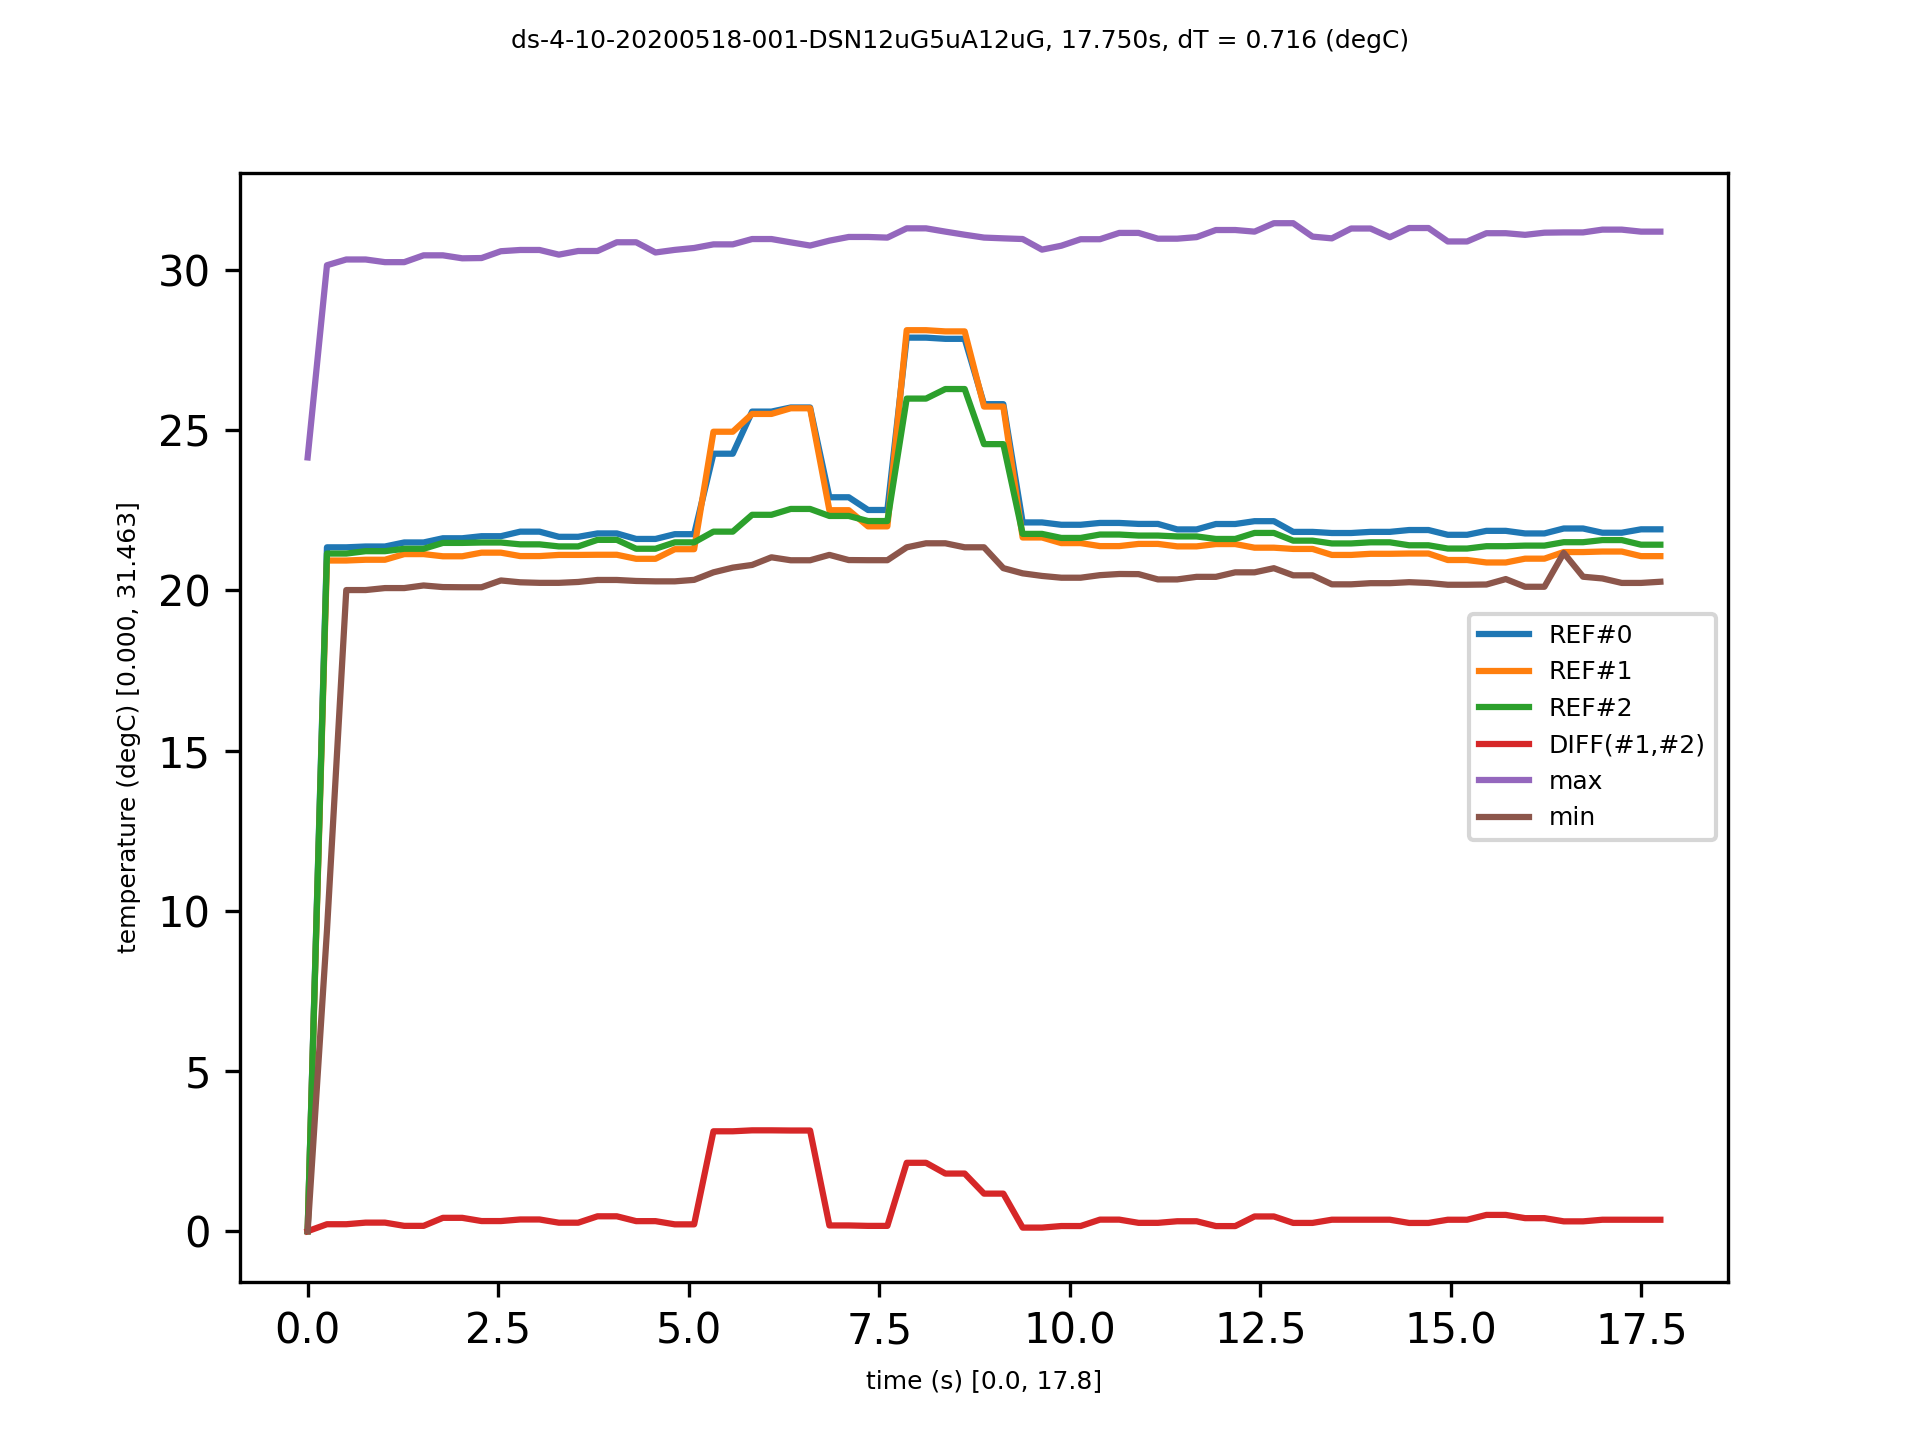
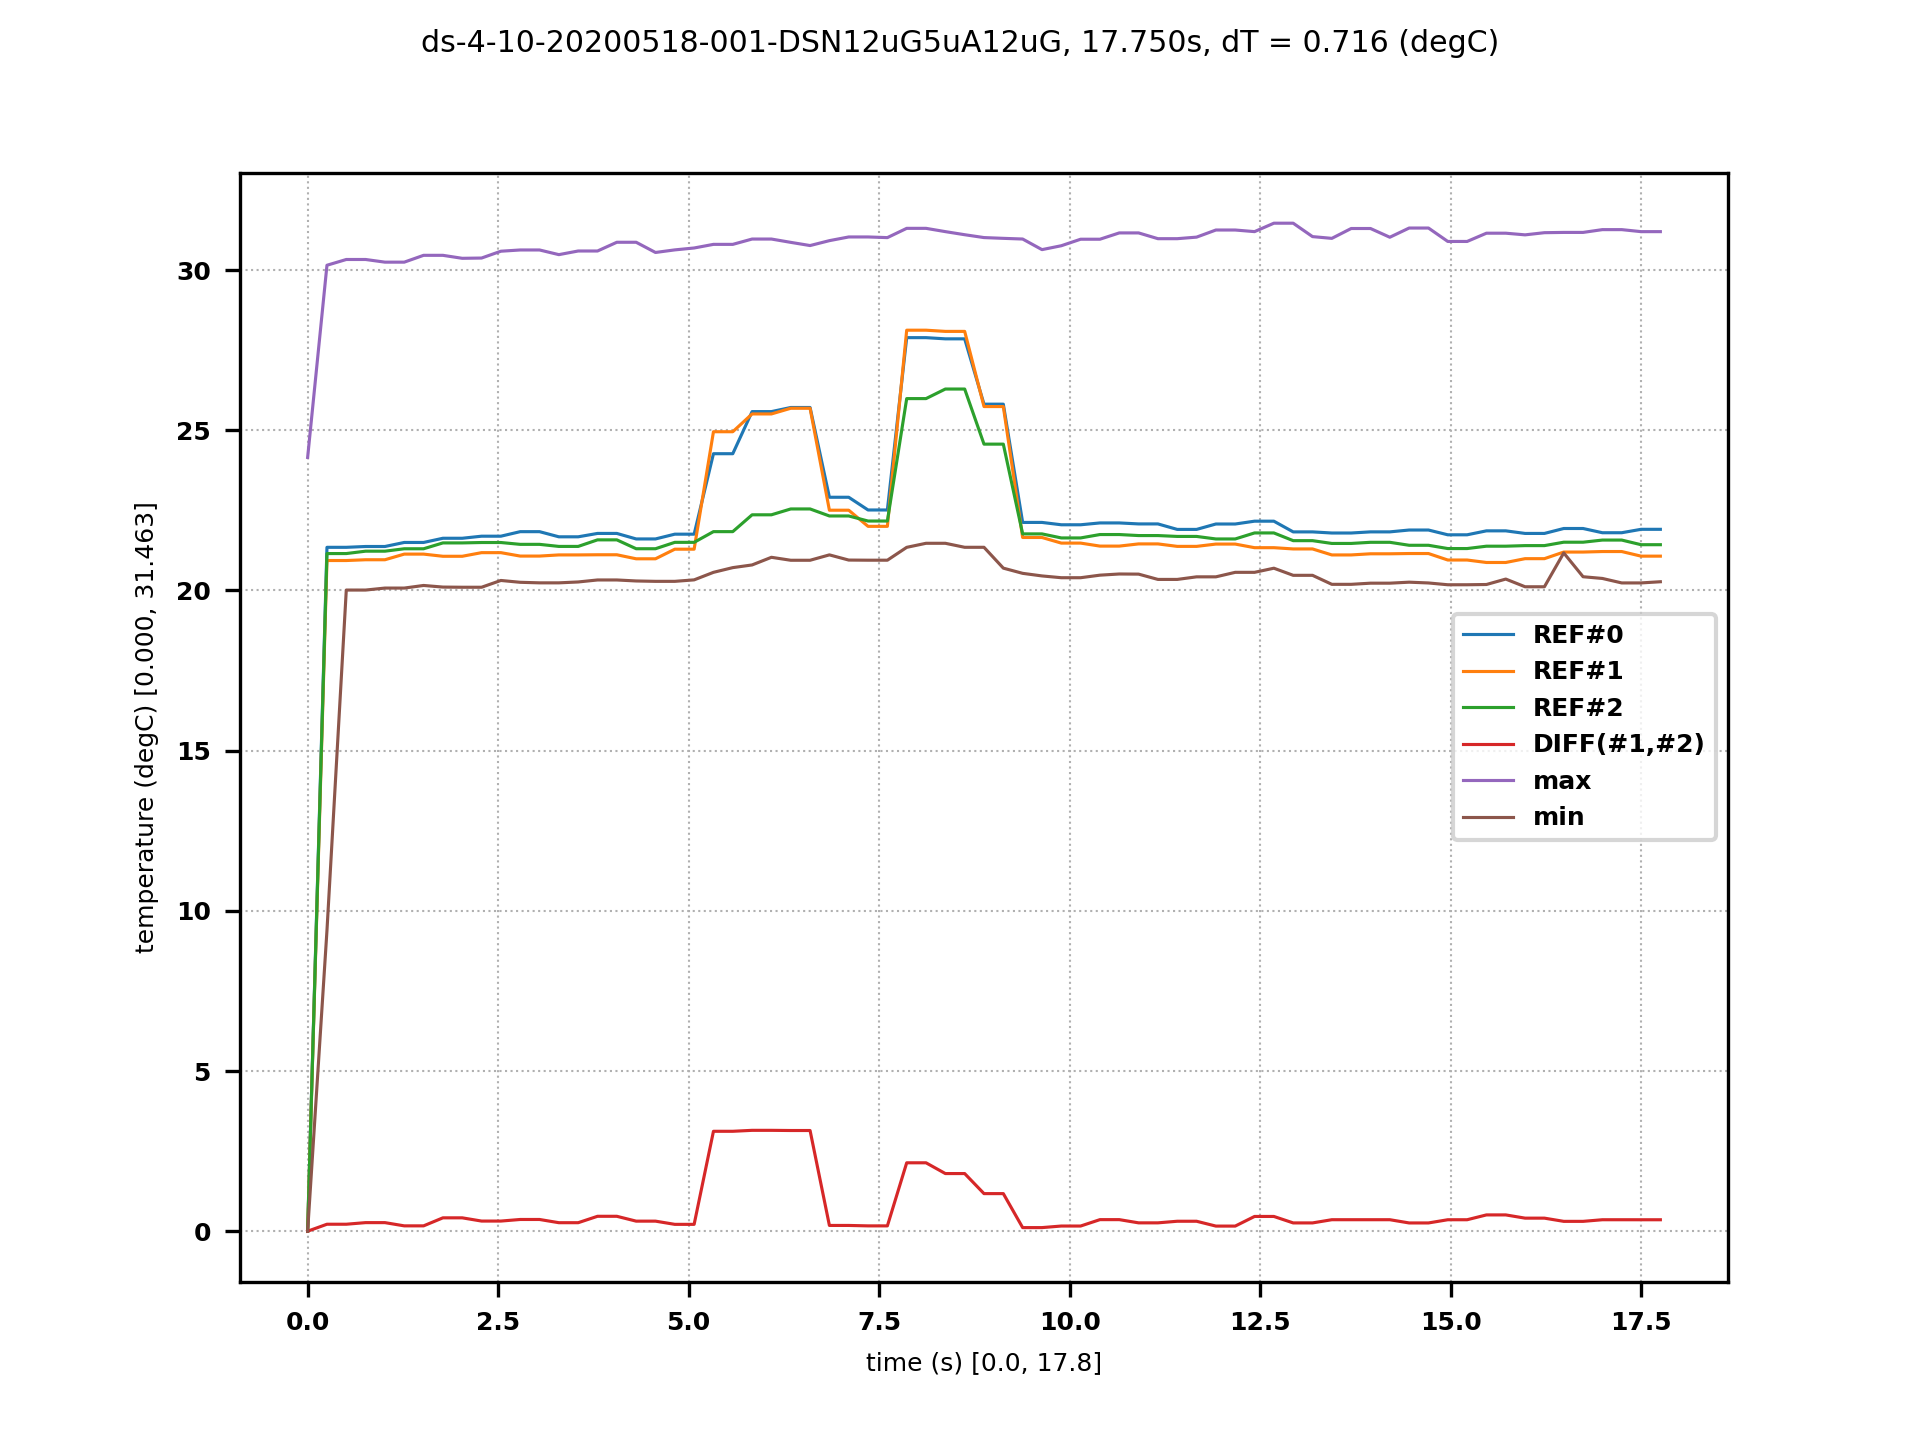
Polished up images, ready to use.

diff --git a/processor/processor.py b/processor/processor.py
@@ -1,6 +1,7 @@
 """This is the processor that digests the raw data from MLX90640 and analyzes it."""
 
 import argparse
+import matplotlib as mp
 import matplotlib.pyplot as pl
 import numpy as np
 import os
@@ -15,7 +16,7 @@ class MLX90640Frame(logger.LoggingClass):
     This is an array of floats, with 32x24 elements (MLX90640 pixels)
     """
 
-    def __init__(self, frame, time_us, plot=True):
+    def __init__(self, frame, time_us, plot_frame=True):
         """Default constructor
         frame - array with the pixel data
         time_us - timestamp (in microseconds) at which the image was taken
@@ -25,7 +26,7 @@ class MLX90640Frame(logger.LoggingClass):
 
         self.frame = frame
         self.time_us = time_us
-        self.plot = plot
+        self.plot_frame = plot_frame
 
         self.image_filename = "-".join([MLX90640Processor.dataset_name, "{:.0f}".format(self.time_us)]) + '.png'
         self.image_filepath = os.path.join(MLX90640Processor.dataset_dirpath, self.image_filename)
@@ -55,30 +56,30 @@ class MLX90640Frame(logger.LoggingClass):
     def temperature(self, coordinates):
         return self.frame[coordinates[1], coordinates[0]]
 
-    def _annotateTemperature(self, coordinates, temperature, fontsize=6, shift_x=2, shift_y=0, label=""):
+    def _annotateTemperature(self, coordinates, temperature, shift_x=2, shift_y=0, label=""):
         pl.text(
             coordinates[0]+shift_x, coordinates[1]+shift_y, f"{label}:{temperature:.1f}",
-            horizontalalignment='right', verticalalignment='center', fontsize=fontsize
+            horizontalalignment='right', verticalalignment='center'
         )
         pl.plot(*coordinates, 'X')
 
-    def plot(self, fontsize=6):
+    def plot(self, cmap='nipy_spectral', dpi=300):
 
         fig, ax = pl.subplots()
-        fig.suptitle(f"{MLX90640Processor.dataset_name}@{self.time_us/1e6:3.3f}s, dT = {self.diff_t_12:2.3f} (degC)")
+        fig.suptitle(f"{MLX90640Processor.dataset_name}@{self.time_us/1e6:3.3f} s, dT = {self.diff_t_12:2.3f} (degC)")
         image = pl.imshow(
-            self.frame, aspect='auto', cmap=pl.get_cmap('nipy_spectral'),
+            self.frame, aspect='auto', cmap=pl.get_cmap(cmap),
             vmin=MLX90640Processor.T_MIN_C, vmax=MLX90640Processor.T_MAX_C
         )
         fig.colorbar(image)
 
-        self._annotateTemperature(MLX90640Processor.REF_PIXEL_0, self.ref_t_0, fontsize=fontsize)
-        self._annotateTemperature(MLX90640Processor.REF_PIXEL_1, self.ref_t_1, fontsize=fontsize)
-        self._annotateTemperature(MLX90640Processor.REF_PIXEL_2, self.ref_t_2, fontsize=fontsize)
-        self._annotateTemperature(self.min_pixel, self.min_value, label="min", fontsize=fontsize)
-        self._annotateTemperature(self.max_pixel, self.max_value, label="max", fontsize=fontsize)
+        self._annotateTemperature(MLX90640Processor.REF_PIXEL_0, self.ref_t_0)
+        self._annotateTemperature(MLX90640Processor.REF_PIXEL_1, self.ref_t_1)
+        self._annotateTemperature(MLX90640Processor.REF_PIXEL_2, self.ref_t_2)
+        self._annotateTemperature(self.min_pixel, self.min_value, label="min")
+        self._annotateTemperature(self.max_pixel, self.max_value, label="max")
 
-        pl.savefig(self.image_filepath, dpi=300)
+        pl.savefig(self.image_filepath, dpi=dpi)
         pl.close()
 
     def process(self):
@@ -101,7 +102,7 @@ class MLX90640Frame(logger.LoggingClass):
         result = np.where(self.frame == self.max_value)
         self.max_pixel = (result[1][0], result[0][0])
 
-        if self.plot:
+        if self.plot_frame:
             self.plot()
 
 
@@ -162,7 +163,7 @@ class MLX90640Processor(logger.LoggingClass):
         self._l.debug(f"> r_pix_1 = ({self.REF_PIXEL_1})")
         self._l.debug(f"> r_pix_2 = ({self.REF_PIXEL_2})")
 
-    def __init__(self, fps, distance_mm, raw_filepath, px_distance_mm=10, plot_frames=True):
+    def __init__(self, fps, distance_mm, raw_filepath, px_distance_mm=10, plot_frames=True, fontsize=6):
         """Default constructor
         fps - frames per second, necessary to calculate the timeline
         distance_mm - mm of distance from the camera to the target material
@@ -177,9 +178,13 @@ class MLX90640Processor(logger.LoggingClass):
         self.raw_filepath = raw_filepath
         self.px_distance_mm = px_distance_mm
         self.plot_frames = plot_frames
+        self.fontsize = fontsize
 
         self.timestep_us = 1e6 / self.fps
         self.frames = []
+
+        font = {'family': 'normal', 'weight': 'bold', 'size': self.fontsize}
+        mp.rc('font', **font)
 
         MLX90640Processor.dataset_name = pathlib.Path(self.raw_filepath).stem
         MLX90640Processor.dataset_dirpath = os.path.join(
@@ -210,7 +215,7 @@ class MLX90640Processor(logger.LoggingClass):
                 try:
 
                     array = np.fromfile(f, dtype=np.float32, count=self.PIXELS_FRAME)
-                    frame = MLX90640Frame(array.reshape(self.FRAME_SHAPE), time_us, plot=self.plot_frames)
+                    frame = MLX90640Frame(array.reshape(self.FRAME_SHAPE), time_us, plot_frame=self.plot_frames)
                     self.frames.append(frame)
                     time_us += self.timestep_us
 
@@ -258,36 +263,34 @@ class MLX90640Processor(logger.LoggingClass):
 
         self.plot()
 
-    def plot(self, fontsize=6):
+    def plot(self):
         """
         This method plots the resulting time-dependent variables.
         NOTICE: it requires of postprocess() to have been correctly executed.
         """
         fig, ax = pl.subplots()
-        fig.suptitle(
-            f"{self.dataset_name}, {self.duration:3.3f}s, dT = {self.stable_dT:2.3f} (degC)",
-            fontsize=fontsize
-        )
+        fig.suptitle(f"{self.dataset_name}, {self.duration:3.3f}s, dT = {self.stable_dT:2.3f} (degC)")
 
-        pl.plot(self.t,     self.t0,    label="REF#0")
-        pl.plot(self.t,     self.t1,    label="REF#1")
-        pl.plot(self.t,     self.t2,    label="REF#2")
+        pl.plot(self.t,     self.t0,    linewidth=0.75, label="REF#0")
+        pl.plot(self.t,     self.t1,    linewidth=0.75, label="REF#1")
+        pl.plot(self.t,     self.t2,    linewidth=0.75, label="REF#2")
 
-        pl.plot(self.t,     self.diff,  label="DIFF(#1,#2)")
-        pl.plot(self.t,     self.max,   label="max")
-        pl.plot(self.t,     self.min,   label="min")
+        pl.plot(self.t,     self.diff,  linewidth=0.75, label="DIFF(#1,#2)")
+        pl.plot(self.t,     self.max,   linewidth=0.75, label="max")
+        pl.plot(self.t,     self.min,   linewidth=0.75, label="min")
 
-        pl.xlabel(f"time (s) [{self.t[0]:2.1f}, {self.t[-1]:2.1f}]", fontsize=fontsize)
-        pl.ylabel(f"temperature (degC) [{np.min(self.min):2.3f}, {np.max(self.max):2.3f}]", fontsize=fontsize)
+        pl.xlabel(f"time (s) [{self.t[0]:2.1f}, {self.t[-1]:2.1f}]")
+        pl.ylabel(f"temperature (degC) [{np.min(self.min):2.3f}, {np.max(self.max):2.3f}]")
 
-        pl.legend(fontsize=fontsize)
+        pl.grid(linestyle=":", linewidth=0.5)
+        pl.legend()
 
         pl.savefig(self.image_filepath, dpi=300)
         pl.close()
 
     @staticmethod
     def create(argv):
-        # Basic class static factory method.
+        """Factory method to instantiate the class using the arguments from the CLI"""
 
         parser = argparse.ArgumentParser(description="Process a file with raw data from MLX90640")
         parser.add_argument(

diff --git a/processor/tests/test_processor.py b/processor/tests/test_processor.py
@@ -21,4 +21,4 @@ class MLX90640Processor(unittest.TestCase):
     def test_process(self):
 
         print(f"datasets={self.datasets}")
-        test_object = processor.MLX90640Processor(*self.datasets[0], plot_frames=False)
+        test_object = processor.MLX90640Processor(*self.datasets[0], plot_frames=True)
